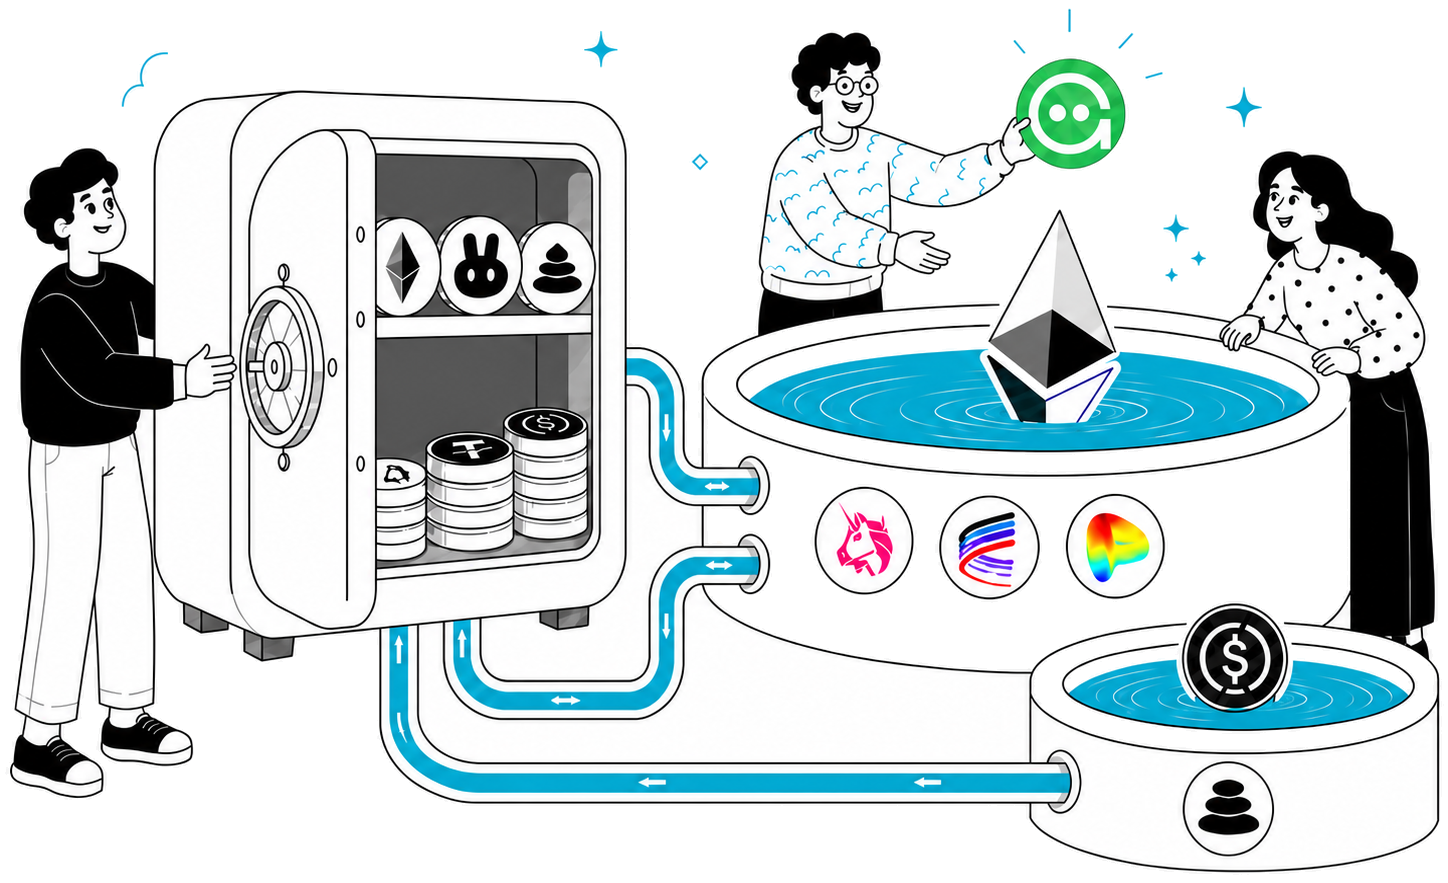
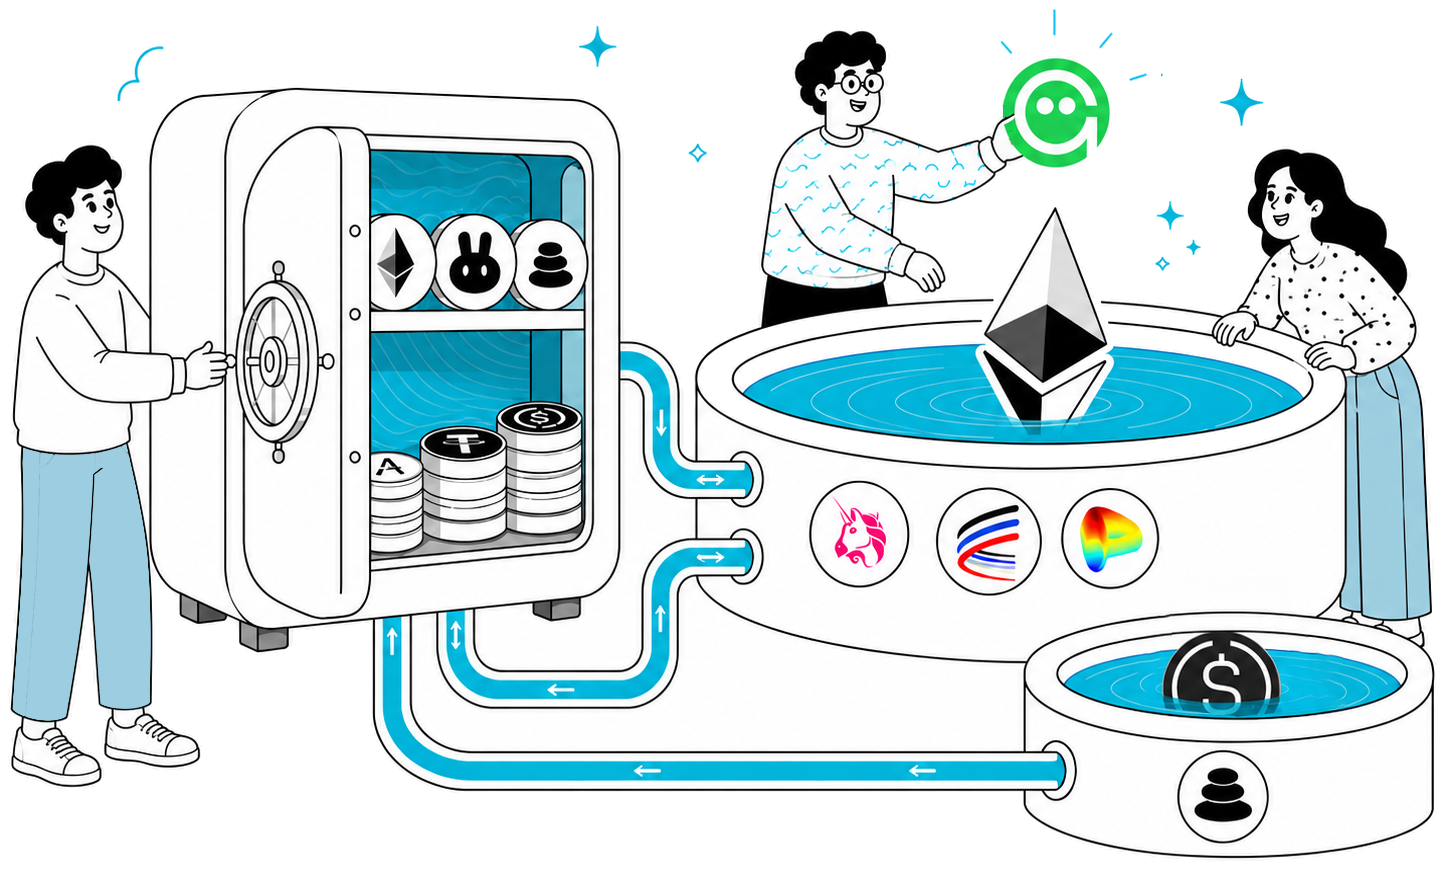
Polish header accents and refresh homepage hero treatment.
Keep Avana cyan on the sticky header, mobile menu, and open desktop panel, highlight the active desktop section from the current route, and ship the updated cropped hero plus lighter wordmark assets.

diff --git a/src/components/header-desktop-navigation.tsx b/src/components/header-desktop-navigation.tsx
@@ -1,6 +1,7 @@
 "use client"
 
 import dynamic from "next/dynamic"
+import { usePathname } from "next/navigation"
 import { useEffect, useRef, useState } from "react"
 import { desktopMenuButtons, type DesktopMenuId } from "@/components/header-nav-data"
 
@@ -12,7 +13,14 @@ function warmDesktopMenuPanel() {
   desktopMenuPanelPromise ??= import("@/components/header-desktop-menu-panel")
 }
 
+function isPathInSection(pathname: string, matchHrefs: readonly string[]) {
+  return matchHrefs.some(
+    (href) => pathname === href || pathname.startsWith(`${href}/`),
+  )
+}
+
 export default function HeaderDesktopNavigation() {
+  const pathname = usePathname() || "/"
   const [desktopMenuOpen, setDesktopMenuOpen] = useState<DesktopMenuId | null>(null)
   const [desktopMenuRendered, setDesktopMenuRendered] = useState<DesktopMenuId | null>(null)
   const [desktopMenuAnimationCycle, setDesktopMenuAnimationCycle] = useState(0)
@@ -47,19 +55,21 @@ export default function HeaderDesktopNavigation() {
     <>
       <nav aria-label="Primary navigation" className="hidden min-w-0 items-center gap-8 md:ml-6 md:mr-auto md:flex md:gap-6 lg:gap-8" onMouseEnter={warmDesktopMenuPanel} onMouseLeave={scheduleDesktopMenuClose}>
         {desktopMenuButtons.map((menu) => {
-          const isActive = desktopMenuOpen === menu.id
+          const isOpen = desktopMenuOpen === menu.id
+          const isCurrentSection = isPathInSection(pathname, menu.matchHrefs)
+          const isHighlighted = isOpen || isCurrentSection
 
           return (
             <button
               key={menu.id}
               type="button"
               aria-haspopup="true"
-              aria-expanded={isActive}
+              aria-expanded={isOpen}
               aria-controls={`desktop-menu-${menu.id}`}
               onMouseEnter={() => openDesktopMenu(menu.id)}
               onFocus={() => openDesktopMenu(menu.id)}
               onClick={() => openDesktopMenu(menu.id)}
-              className={`site-header-nav-link group relative inline-flex items-center px-0 py-1 text-[15px] font-medium tracking-[-0.02em] transition-[color,opacity] duration-200 ease-out ${isActive ? "text-[#01AACF]" : "text-black/62 hover:text-black/94"}`}
+              className={`site-header-nav-link group relative inline-flex items-center px-0 py-1 text-[15px] font-medium tracking-[-0.02em] transition-[color,opacity] duration-200 ease-out ${isHighlighted ? "text-[#01AACF]" : "text-black/62 hover:text-black/94"}`}
             >
               <span>{menu.label}</span>
             </button>

diff --git a/src/components/header.tsx b/src/components/header.tsx
@@ -23,8 +23,9 @@ function BrandLogo({ mobileOnly = false }: { mobileOnly?: boolean }) {
       <Image
         src={HEADER_WORDMARK_PATH}
         alt={`${SITE_NAME} logo`}
-        width={3000}
-        height={1500}
+        width={480}
+        height={240}
+        quality={85}
         className={mobileOnly ? "h-[56px] w-auto scale-[1.08] origin-left" : "h-[56px] w-auto scale-[1.08] origin-left md:h-[52px]"}
       />
     </span>
@@ -33,7 +34,7 @@ function BrandLogo({ mobileOnly = false }: { mobileOnly?: boolean }) {
 
 export default function Header(): React.JSX.Element {
   return (
-    <header className="sticky top-0 z-50 bg-[linear-gradient(rgba(255,255,255,0.94)_0%,rgba(255,255,255,0.94)_100%)] backdrop-blur-[10px]">
+    <header className="sticky top-0 z-50 border-b border-[#01AACF] bg-[linear-gradient(rgba(255,255,255,0.94)_0%,rgba(255,255,255,0.94)_100%)] backdrop-blur-[10px]">
       <div className="flex h-16 w-full items-center justify-between gap-4 px-4 sm:px-6 md:h-[54px] md:gap-3 md:px-6 lg:px-6 xl:px-8">
         <div className="inline-flex shrink-0 items-center">
           <Link href={siteRoutes.home} prefetch={false} aria-label={SITE_NAME} data-framer-name="Logo" className="inline-flex items-center">

diff --git a/src/components/webapp-hero.tsx b/src/components/webapp-hero.tsx
@@ -17,11 +17,11 @@ export default function WebappHero() {
             <Image
               src="/avana-pool-hero.png"
               alt="Avana homepage hero visual"
-              width={1448}
-              height={883}
+              width={1444}
+              height={869}
               preload
               fetchPriority="high"
-              quality={85}
+              quality={62}
               className="h-auto w-full rounded-none"
               sizes="(max-width: 768px) 100vw, (max-width: 1280px) calc(100vw - 2rem), 1080px"
             />

diff --git a/src/components/header-desktop-menu-panel.tsx b/src/components/header-desktop-menu-panel.tsx
@@ -160,7 +160,7 @@ export default function HeaderDesktopMenuPanel({
       }`}
       aria-hidden={!isOpen}
     >
-      <div className="border-b border-black/6 bg-white shadow-[0_24px_72px_rgba(0,0,0,0.04)]">
+      <div className="border-b border-[#01AACF] bg-white shadow-[0_24px_72px_rgba(0,0,0,0.04)]">
         <div className="w-full bg-white px-4 py-5 sm:px-6 md:px-5 md:py-5 lg:px-6 xl:px-8">
           <div
             key={`${menu.id}-${animationCycle}`}

diff --git a/src/lib/site.ts b/src/lib/site.ts
@@ -1,7 +1,7 @@
 export const SITE_NAME = "Avana"
 export const SITE_URL = "https://avana.cc"
 export const LOGO_PATH = "/Avana%20Logo.png"
-export const HEADER_WORDMARK_PATH = "/Avana%20SVG/Avana%20Full%20(Personal).svg"
+export const HEADER_WORDMARK_PATH = "/images/avana-wordmark.webp"
 export const SOCIAL_HANDLE = "@dexmini"
 export const DEFAULT_OG_SUBTITLE = "Borrow Against LP Positions on Aave v4"
 export const DEFAULT_SITE_DESCRIPTION =

diff --git a/src/components/footer.tsx b/src/components/footer.tsx
@@ -150,8 +150,9 @@ export default function Footer(): React.JSX.Element {
               <Image
                 src={HEADER_WORDMARK_PATH}
                 alt={`${SITE_NAME} logo`}
-                width={3000}
-                height={1500}
+                width={480}
+                height={240}
+                quality={85}
                 className="h-[56px] w-auto scale-[1.08] origin-left"
               />
             </Link>

diff --git a/src/components/header-mobile-menu.tsx b/src/components/header-mobile-menu.tsx
@@ -66,7 +66,7 @@ export default function HeaderMobileMenu({
       aria-label="Mobile menu"
       aria-hidden={!isVisible}
     >
-      <div className="flex h-16 items-center justify-between px-4 sm:px-6">
+      <div className="flex h-16 items-center justify-between border-b border-[#01AACF] px-4 sm:px-6">
         <Link
           href={siteRoutes.home}
           prefetch={false}
